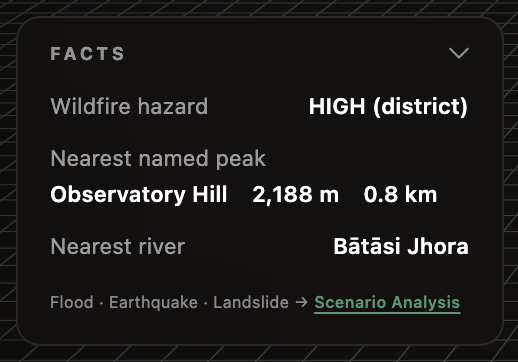
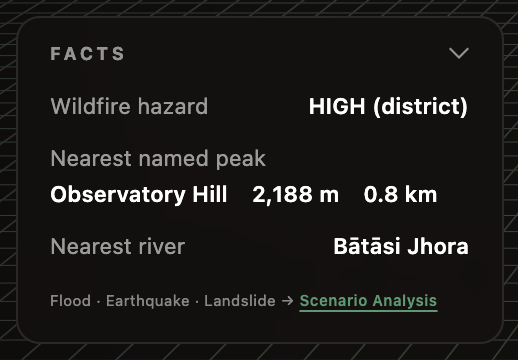
Facts footer at 7.5px so the whole line (incl. the Scenario Analysis link) fits the card; all 732 library facts/scenario items curated (owner approval) and the static library re-baked (732 items on 76 tiles)

diff --git a/frontend/src/styles.css b/frontend/src/styles.css
@@ -5137,7 +5137,7 @@ kbd {
 
 .xp-facts-more {
     margin: 16px 0 0;
-    font-size: 8px;
+    font-size: 7.5px;
     white-space: nowrap;
     color: rgba(var(--text-rgb), 0.5);
 }
